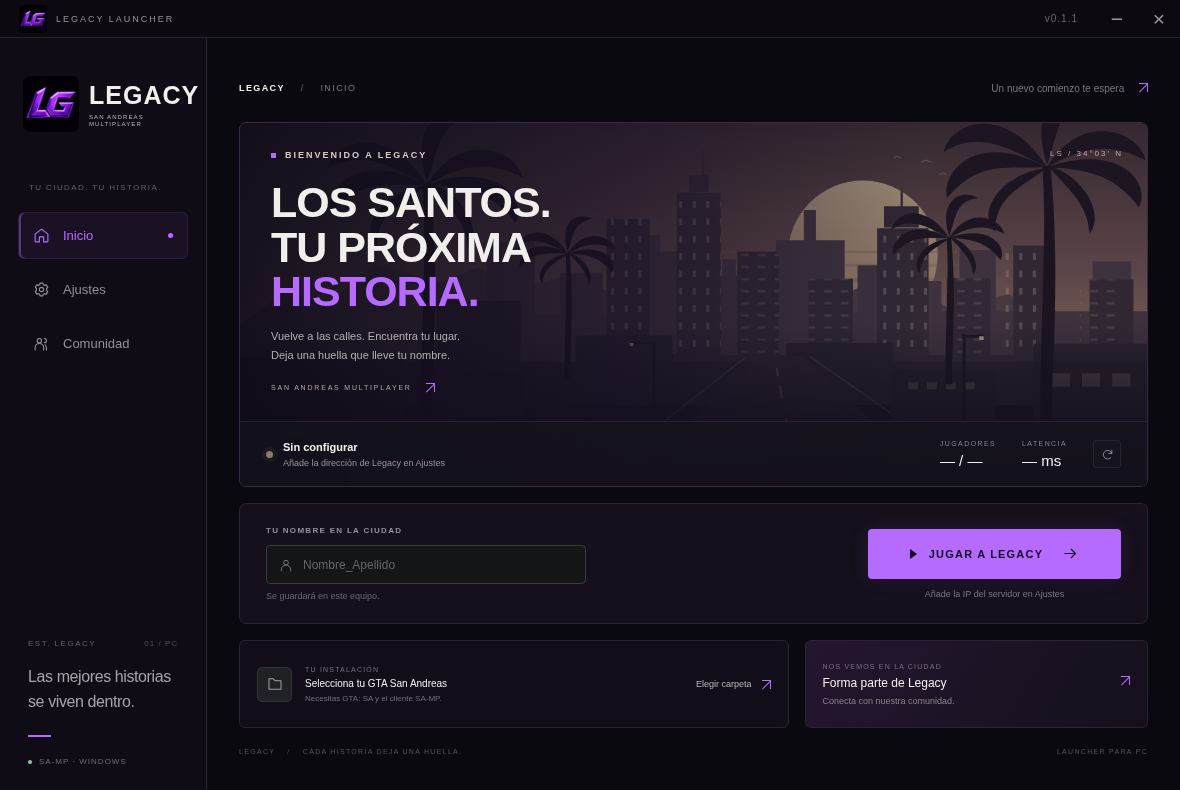
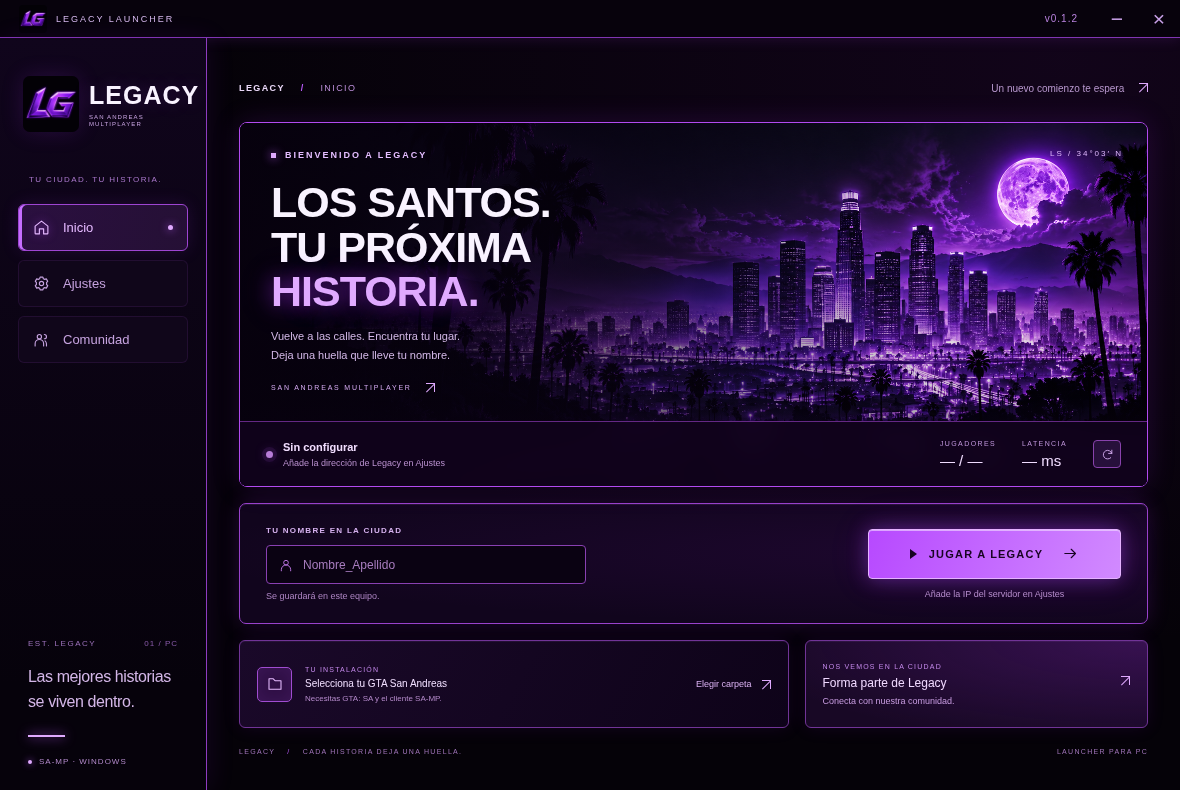
Aplica negro y morado neón a todo Legacy Launcher

diff --git a/renderer/styles.css b/renderer/styles.css
@@ -1,4 +1,215 @@
-:root{color-scheme:dark;--bg:#0b0910;--panel:#15101c;--line:#2b2235;--text:#f1efeb;--muted:#8b8b90;--accent:#b56bff;--green:#8bcc9a;font-family:"Segoe UI",Arial,sans-serif;font-size:14px}*{box-sizing:border-box}body{margin:0;background:var(--bg);color:var(--text)}button,input{font:inherit}button{cursor:pointer}button:disabled{cursor:default;opacity:.45}button,input{outline:none}button:focus-visible,input:focus-visible{outline:2px solid var(--accent);outline-offset:3px}button{color:inherit}svg{width:20px;height:20px;fill:none;stroke:currentColor;stroke-width:1.6;stroke-linecap:round;stroke-linejoin:round;flex-shrink:0}.icon-definitions{position:absolute;width:0;height:0;overflow:hidden}[hidden]{display:none!important}.titlebar{height:38px;display:flex;align-items:center;justify-content:space-between;padding-left:19px;background:#0c0911;border-bottom:1px solid #262628;-webkit-app-region:drag;user-select:none}.titlebar-name{font-size:9px;letter-spacing:2px;color:#949498;display:flex;align-items:center;gap:9px}.window-actions{display:flex;align-items:center;height:100%;-webkit-app-region:no-drag}.version{color:#69696f;font-size:10px;letter-spacing:1px;margin-right:18px}.window-button{background:none;border:0;font-size:21px;font-weight:300;width:42px;height:100%;color:#999}.window-button:hover{background:#252527;color:#fff}.close-window:hover{background:#b44739}.app-shell{display:flex;min-height:calc(100vh - 38px)}.sidebar{width:207px;flex-shrink:0;border-right:1px solid var(--line);background:#100c16;padding:35px 18px 24px;display:flex;flex-direction:column;position:relative}.brand{display:flex;align-items:center;gap:10px;margin:3px 0 51px 5px}.brand-name{font-size:25px;font-weight:900;letter-spacing:1px;line-height:1.2}.brand-name>span{display:block;font-size:6px;letter-spacing:1.1px;font-weight:400;color:#b8b7ba;margin-top:4px}.nav-label{color:#616168;font-size:8px;letter-spacing:1.4px;margin:0 11px 20px}.nav-item{width:100%;display:flex;align-items:center;gap:13px;border:1px solid transparent;background:none;border-radius:6px;height:47px;padding:0 14px;color:#8f9096;text-align:left;font-size:13px;margin-bottom:7px;position:relative}.nav-item svg{width:17px;height:17px}.nav-item:hover{background:#202123;color:#ccc}.nav-item.active{color:var(--accent);background:#b56bff10;border-color:#b56bff1c}.nav-dot{margin-left:auto;width:5px;height:5px;background:currentColor;border-radius:50%}.sidebar-bottom{margin-top:auto;padding:72px 10px 0}.edition{color:#63646a;font-size:8px;letter-spacing:1.5px;display:flex;justify-content:space-between}.edition>span{letter-spacing:1px;color:#4e4f55}.sidebar-bottom p{font-size:16px;line-height:1.6;letter-spacing:-.4px;color:#a4a4a8}.sidebar-line{width:23px;height:2px;background:var(--accent);display:block;margin:20px 0}.platform-label{font-size:8px;letter-spacing:1px;color:#6c6d73;display:flex;gap:7px;align-items:center}.tiny-dot{width:4px;height:4px;display:inline-block;border-radius:50%;background:var(--green)}main{min-width:0;flex:1;padding:0 32px;max-width:1550px;margin:auto;width:100%;align-self:stretch}.page-top{height:68px;display:flex;justify-content:space-between;align-items:center}.breadcrumb{font-size:9px;letter-spacing:1.4px;font-weight:600}.breadcrumb>span:first-child{color:#47484c;margin:0 12px}.breadcrumb>span:last-child{color:#77787f;font-weight:400}.top-caption{color:#77787f;font-size:10px}.top-caption>span{color:var(--accent);margin-left:12px}.hero{height:365px;border:1px solid #3a294a;position:relative;overflow:hidden;background:#24172e;border-radius:7px}.hero-art{position:absolute;inset:0;background-image:url('../assets/city.svg');background-position:center;background-size:cover;opacity:.83;filter:hue-rotate(28deg) saturate(.65)}.hero-shade{position:absolute;inset:0;background:linear-gradient(90deg,#111319dc 0%,#17151c8f 42%,#21182412 75%),linear-gradient(0deg,#15151b 0%,transparent 45%)}.hero-content{position:absolute;left:31px;top:27px}.eyebrow{font-size:9px;letter-spacing:2px;font-weight:600;display:flex;align-items:center;gap:9px;color:#d7cac1}.eyebrow>span{width:5px;height:5px;background:var(--accent);display:inline-block}h1{font-size:43px;line-height:1.04;letter-spacing:-1px;font-weight:900;margin:20px 0 13px}em{font-style:normal;color:var(--accent)}.hero-content p{font-size:11px;line-height:1.7;color:#b2acb1;margin:0}.hero-tag{display:flex;align-items:center;gap:14px;font-size:7px;letter-spacing:1.8px;color:#b3a8a9;margin-top:18px}.hero-tag b{font-size:14px;color:var(--accent)}.hero-coordinate{position:absolute;right:24px;top:26px;font-size:8px;letter-spacing:2px;color:#c7a1a2}.server-strip{position:absolute;bottom:0;width:100%;min-height:65px;border-top:1px solid #ffffff12;display:flex;align-items:center;justify-content:space-between;padding:12px 26px;background:#14141ba6;backdrop-filter:blur(12px)}.server-state{display:flex;align-items:center;gap:10px}.status-dot{width:7px;height:7px;background:#8c7a63;border-radius:50%;box-shadow:0 0 0 4px #8c7a6318}.status-dot.online{background:var(--green);box-shadow:0 0 0 4px #8bcc9a15}.status-dot.offline{background:#ef805f}.server-state>div{display:flex;flex-direction:column;gap:5px}#server-state{font-size:11px;font-weight:600}#server-address{font-size:9px;color:#9e9299}.server-stats{display:flex;gap:26px;align-items:center}.server-stats>div{display:flex;flex-direction:column;gap:5px}.server-stats>div>span{color:#8f828e;font-size:7px;letter-spacing:1.4px}.server-stats strong{font-size:15px;font-weight:500}.server-stats small{font-size:9px;color:#847b85;font-weight:400}.icon-button{width:28px;height:28px;display:grid;place-items:center;border:1px solid #ffffff12;border-radius:4px;background:#ffffff03;color:#a498a2}.icon-button:hover{background:#ffffff10;color:#fff}.icon-button svg{width:13px;height:13px}.launch-panel{display:flex;align-items:center;justify-content:space-between;border:1px solid var(--line);border-radius:7px;padding:22px 26px;background:#15101c;margin:16px 0;gap:28px}.player-field{flex:1;min-width:0}.player-field label,label{display:block;color:#929299;font-size:8px;letter-spacing:1.3px;font-weight:600;margin-bottom:10px}.input-wrap{display:flex;align-items:center;border:1px solid #39393e;border-radius:4px;height:39px;max-width:320px;background:#141517}.input-wrap:focus-within{border-color:var(--accent)}.input-wrap svg{width:14px;height:14px;color:#7d7e86;margin:0 10px 0 12px}.input-wrap input{width:100%;border:0;background:none;height:100%;min-width:0;color:#dfdfe2;font-size:12px;padding:0 10px 0 0;outline:none}.input-wrap input:focus-visible{outline:none}input::placeholder{color:#64656c}.player-field>span{font-size:9px;color:#686970;display:block;margin-top:7px}.launch-action{width:253px;flex-shrink:0;text-align:center}.play-button{border:0;background:var(--accent);color:#150920;border-radius:4px;width:100%;height:50px;font-size:11px;font-weight:800;letter-spacing:1.2px;display:flex;align-items:center;justify-content:center;gap:12px;transition:background .15s,transform .15s}.play-button:hover{background:#c997ff;transform:translateY(-1px)}.play-button svg{margin-left:7px;width:17px;height:17px}.play-triangle{width:0;height:0;border-top:5px solid transparent;border-bottom:5px solid transparent;border-left:7px solid currentColor}.launch-action>span{font-size:9px;display:block;color:#797980;margin-top:10px}.bottom-grid{display:grid;grid-template-columns:1.6fr 1fr;gap:16px}.installation-card,.community-card{background:#120e19;border:1px solid var(--line);border-radius:6px;min-height:88px;display:flex;align-items:center;padding:17px;gap:13px}.card-icon{width:35px;height:35px;border:1px solid #333338;background:#202124;border-radius:5px;display:grid;place-items:center;color:#9d9ca2;flex-shrink:0}.card-icon svg{width:16px;height:16px}.installation-info{display:flex;flex-direction:column;gap:5px;min-width:0}.card-kicker{font-size:7px;letter-spacing:1.2px;color:#73747c}.installation-info strong{font-size:10px;font-weight:500}.installation-info>span:last-child{font-size:8px;color:#717178;white-space:nowrap;overflow:hidden;text-overflow:ellipsis;max-width:230px}.text-button{border:0;background:none;color:#b8b5b9;font-size:9px;padding:7px 0;white-space:nowrap;display:flex;align-items:center;gap:10px}.text-button:hover{color:var(--accent)}.installation-card>.text-button{margin-left:auto}.text-button>span{color:var(--accent);font-size:16px}.community-card{display:flex;flex-direction:column;align-items:stretch;justify-content:center;gap:6px;text-align:left;background:linear-gradient(120deg,#24162f,#15101c)}.community-card:hover{border-color:#78509e}.community-card strong{font-size:12px;font-weight:500;display:flex;justify-content:space-between}.community-card strong>span{color:var(--accent);font-size:16px}.community-card>span:last-child{font-size:9px;color:#8c828c}.main-footer{height:46px;display:flex;align-items:center;justify-content:space-between;color:#54555c;font-size:7px;letter-spacing:1.3px}.footer-slash{color:#44454c;margin:0 9px}.section-heading{margin:16px 0 28px}.section-heading h2{font-size:29px;letter-spacing:-.8px;margin:13px 0 8px;font-weight:650}.section-heading p{font-size:12px;color:#8c8c94}.section-heading .eyebrow{color:#a19390}.settings-form{border:1px solid var(--line);background:#15101c;border-radius:7px;overflow:hidden}.settings-section{padding:22px 25px;border-bottom:1px solid var(--line)}.form-section-title{display:flex;gap:14px;margin-bottom:19px}.form-section-title>span{color:var(--accent);font-size:10px;font-weight:600;border:1px solid #b56bff29;background:#b56bff08;width:28px;height:28px;border-radius:4px;display:grid;place-items:center;flex-shrink:0}.form-section-title h3{font-size:13px;font-weight:600;margin:0 0 6px}.form-section-title p{color:#81828a;font-size:10px;margin:0}.settings-form input{height:38px;background:#121315;border:1px solid #343439;border-radius:4px;padding:0 12px;color:#d3d3d7;font-size:11px;width:100%}.settings-form label{font-size:7px;margin-bottom:8px}.settings-form input:focus{border-color:var(--accent)}.folder-input{display:flex;gap:10px}.folder-input input{min-width:0}.secondary-button,.primary-button{border:0;border-radius:4px;display:flex;align-items:center;justify-content:center;gap:12px;white-space:nowrap;font-size:11px;font-weight:600;min-height:38px;padding:0 17px}.secondary-button{border:1px solid #45434a;background:#25262b;color:#c3c2ca}.secondary-button:hover{background:#303137}.secondary-button svg{width:15px;height:15px}.primary-button{color:#150920;background:var(--accent)}.primary-button:hover{background:#c997ff}.primary-button svg{width:15px;height:15px}.field-help{color:#686b73;font-size:9px;margin:9px 0 0}.field-help.valid{color:var(--green)}.field-help.invalid{color:#ee977f}.form-row{display:flex;gap:16px}.form-row>div{flex:1;min-width:0}.form-row>.port-field{flex:0 0 110px}.form-footer{padding:19px 25px;display:flex;align-items:center;justify-content:space-between;gap:15px;background:#191221}.form-footer>span{font-size:9px;color:#72737c}.notification{padding:12px 16px;border:1px solid #b56bff45;background:#22152f;border-radius:5px;color:#e3c6ff;font-size:11px;margin:0 0 16px;line-height:1.5}.notification.success{background:#1b2a22;border-color:#8bcc9a40;color:#b2d8bd}.community-hero{border:1px solid #3a294a;border-radius:7px;min-height:592px;padding:35px;background:radial-gradient(ellipse at 80% 60%,#733aae3d,transparent 70%),#15101c;position:relative;overflow:hidden}.community-hero h2{font-size:51px;line-height:1.1;letter-spacing:-1.7px;margin:56px 0 22px;position:relative}.community-hero p{color:#9c939f;font-size:12px;line-height:1.8;position:relative}.community-hero .primary-button{margin:27px 0 14px;position:relative}.community-hero .discord-help{font-size:10px;color:#887b88}.community-hero .text-button{position:relative}.community-symbol{position:absolute;right:0;top:130px;transform:rotate(-10deg);color:#b56bff0e}.community-symbol svg{width:340px;height:340px;stroke-width:1}.loading{opacity:.6;pointer-events:none}@media(min-height:850px){.hero{height:410px}.hero-content{top:38px}h1{font-size:49px;margin-top:24px}.hero-content p{font-size:12px}.hero-tag{margin-top:22px}.launch-panel{padding-top:26px;padding-bottom:26px}.bottom-grid> *{min-height:104px}.main-footer{height:55px}}@media(min-width:1350px){main{padding:0 45px}.sidebar{width:220px}.hero-content{left:38px}h1{font-size:49px}.launch-panel{gap:45px}.player-field .input-wrap{max-width:400px}.launch-action{width:300px}.hero-art{background-position:center 48%}}@media(max-width:1000px){main{padding:0 22px}.sidebar{width:182px;padding-left:12px;padding-right:12px}.brand-name{font-size:22px}.brand-name>span{font-size:5px}.brand{gap:7px}.top-caption{display:none}.launch-panel{padding:19px;gap:20px}.launch-action{width:220px}.bottom-grid{grid-template-columns:1fr}.community-card{min-height:80px}.installation-card{min-height:85px}.main-footer>span:last-child{display:none}.hero-content{left:24px}.server-strip{padding-left:22px;padding-right:20px}.server-stats{gap:17px}}@media(prefers-reduced-motion:reduce){*{transition:none!important}}
-.diagonal-arrow{display:inline-block!important;width:9px!important;height:9px!important;position:relative;flex-shrink:0;border-top:1.4px solid currentColor;border-right:1.4px solid currentColor}.diagonal-arrow::after{content:"";display:block;position:absolute;right:-1px;top:-1px;width:12px;height:1.4px;background:currentColor;transform:rotate(-45deg);transform-origin:right center}
+:root {
+  color-scheme: dark;
+  --bg: #050208;
+  --panel: #100619;
+  --panel-raised: #1c0a2d;
+  --line: #602b83;
+  --text: #f9f3ff;
+  --muted: #b49acb;
+  --accent: #bd5cff;
+  --accent-bright: #e0aaff;
+  --accent-dim: #7130a3;
+  --glow: 0 0 22px #a329f730;
+  font-family: "Segoe UI", Arial, sans-serif;
+  font-size: 14px;
+}
+* { box-sizing: border-box; }
+body { margin: 0; background: var(--bg); color: var(--text); }
+button, input { font: inherit; }
+button { color: inherit; cursor: pointer; }
+button:disabled { cursor: default; opacity: .48; }
+button, input { outline: none; }
+button:focus-visible, input:focus-visible { outline: 2px solid var(--accent-bright); outline-offset: 3px; }
+button { transition: border-color .15s, background .15s, box-shadow .15s; }
+svg { width: 20px; height: 20px; fill: none; stroke: currentColor; stroke-width: 1.6; stroke-linecap: round; stroke-linejoin: round; flex-shrink: 0; }
+.icon-definitions { position: absolute; width: 0; height: 0; overflow: hidden; }
+[hidden] { display: none !important; }
 
-.mini-mark{display:block;width:28px;height:28px;object-fit:contain;border-radius:4px}.brand-mark{display:block;flex-shrink:0;width:56px;height:56px;object-fit:contain;border-radius:7px}.play-button{box-shadow:0 0 20px #b56bff1c}.play-button:hover{box-shadow:0 0 26px #b56bff38}.nav-item.active{box-shadow:inset 2px 0 #b56bff66}.hero-shade{background:linear-gradient(90deg,#100b19e6 0%,#170e248f 42%,#1b0e2812 75%),linear-gradient(0deg,#110c19 0%,transparent 45%)}@media(max-width:1000px){.brand-mark{width:44px;height:44px}}
+.titlebar { height: 38px; display: flex; align-items: center; justify-content: space-between; padding-left: 19px; background: #07020c; border-bottom: 1px solid #8035b2; box-shadow: 0 1px 14px #b347ff26; -webkit-app-region: drag; user-select: none; }
+.titlebar-name { display: flex; align-items: center; gap: 9px; font-size: 9px; letter-spacing: 2px; color: #d4b8eb; }
+.mini-mark { display: block; width: 28px; height: 28px; object-fit: contain; border-radius: 4px; }
+.window-actions { display: flex; align-items: center; height: 100%; -webkit-app-region: no-drag; }
+.version { color: #b982df; font-size: 10px; letter-spacing: 1px; margin-right: 18px; }
+.window-button { width: 42px; height: 100%; border: 0; background: none; color: #c8a0e7; font-size: 21px; font-weight: 300; }
+.window-button:hover { background: #34104d; color: #fff; box-shadow: inset 0 -2px var(--accent); }
+.close-window:hover { background: #662191; }
+.app-shell { display: flex; min-height: calc(100vh - 38px); background: radial-gradient(ellipse at 90% 3%, #64128c22, transparent 57%); }
+.sidebar { width: 207px; flex-shrink: 0; position: relative; display: flex; flex-direction: column; padding: 35px 18px 24px; background: linear-gradient(180deg, #10051c, #06020b 86%); border-right: 1px solid #8e3cc0; box-shadow: 4px 0 24px #962be618; }
+.brand { display: flex; align-items: center; gap: 10px; margin: 3px 0 43px 5px; }
+.brand-mark { display: block; flex-shrink: 0; width: 56px; height: 56px; object-fit: contain; border-radius: 7px; box-shadow: 0 0 22px #9f36ee2b; }
+.brand-name { font-size: 25px; font-weight: 900; letter-spacing: 1px; line-height: 1.2; text-shadow: 0 0 18px #b955ff33; }
+.brand-name > span { display: block; font-size: 6px; letter-spacing: 1.1px; font-weight: 400; color: #c6a2df; margin-top: 4px; }
+.nav-label { margin: 0 11px 20px; color: #aa78cc; font-size: 8px; letter-spacing: 1.4px; }
+.nav-item { position: relative; display: flex; align-items: center; gap: 13px; width: 100%; height: 47px; padding: 0 14px; margin-bottom: 9px; border: 1px solid #4b20664d; border-radius: 6px; background: #10061a; color: #c5a2de; text-align: left; font-size: 13px; }
+.nav-item svg { width: 17px; height: 17px; }
+.nav-item:hover { border-color: #9945cf; background: #28103d; color: #f2deff; }
+.nav-item.active { border-color: #9e45d2; background: linear-gradient(100deg, #57207c66, #251035); color: #e5b9ff; box-shadow: inset 3px 0 #c56dff, 0 0 18px #b13dff20; }
+.nav-item.active svg { filter: drop-shadow(0 0 4px #b13dff99); }
+.nav-dot { width: 5px; height: 5px; margin-left: auto; background: var(--accent-bright); border-radius: 50%; box-shadow: 0 0 8px var(--accent); }
+.nav-item:not(.active) .nav-dot { opacity: 0; }
+.sidebar-bottom { margin-top: auto; padding: 72px 10px 0; }
+.edition { display: flex; justify-content: space-between; color: #9e73bd; font-size: 8px; letter-spacing: 1.5px; }
+.edition > span { color: #895aa9; letter-spacing: 1px; }
+.sidebar-bottom p { color: #d3b6e7; font-size: 16px; line-height: 1.6; letter-spacing: -.4px; }
+.sidebar-line { display: block; width: 37px; height: 2px; margin: 20px 0; background: var(--accent-bright); box-shadow: 0 0 12px var(--accent); }
+.platform-label { display: flex; gap: 7px; align-items: center; color: #b38acb; font-size: 8px; letter-spacing: 1px; }
+.tiny-dot { display: inline-block; width: 4px; height: 4px; border-radius: 50%; background: var(--accent-bright); box-shadow: 0 0 7px var(--accent); }
+main { min-width: 0; flex: 1; width: 100%; max-width: 1550px; align-self: stretch; margin: auto; padding: 0 32px; }
+.page-top { height: 68px; display: flex; justify-content: space-between; align-items: center; }
+.breadcrumb { color: #ead8f8; font-size: 9px; letter-spacing: 1.4px; font-weight: 600; }
+.breadcrumb > span:first-child { color: var(--accent); margin: 0 12px; }
+.breadcrumb > span:last-child { color: #bb8ed8; font-weight: 400; }
+.top-caption { color: #b797cd; font-size: 10px; }
+.top-caption > span { color: var(--accent-bright); margin-left: 12px; }
+
+.hero { height: 365px; position: relative; overflow: hidden; border: 1px solid #b24af0; border-radius: 8px; background: #0b0213; box-shadow: 0 0 28px #9229e22b, inset 0 0 25px #a03be614; }
+.hero-art { position: absolute; inset: 0; background: url('../assets/city-neon.png') right center / cover; }
+.hero-shade { position: absolute; inset: 0; background: linear-gradient(90deg, #07010ee6 0%, #0a02157d 42%, #12032200 76%), linear-gradient(0deg, #0d0218 0%, #0b02172e 24%, transparent 70%); }
+.hero-content { position: absolute; left: 31px; top: 27px; }
+.eyebrow { display: flex; align-items: center; gap: 9px; color: #e4bdff; font-size: 9px; letter-spacing: 2px; font-weight: 600; }
+.eyebrow > span { display: inline-block; width: 5px; height: 5px; background: var(--accent-bright); box-shadow: 0 0 10px var(--accent); }
+h1 { font-size: 43px; line-height: 1.04; letter-spacing: -1px; font-weight: 900; margin: 20px 0 13px; }
+em { color: var(--accent-bright); font-style: normal; text-shadow: 0 0 20px #af34ff90, 0 0 45px #9d2cf633; }
+.hero-content p { color: #d2b7e6; font-size: 11px; line-height: 1.7; margin: 0; }
+.hero-tag { display: flex; align-items: center; gap: 14px; color: #d3a9ef; font-size: 7px; letter-spacing: 1.8px; margin-top: 18px; }
+.hero-tag b { color: var(--accent-bright); font-size: 14px; }
+.hero-coordinate { position: absolute; right: 24px; top: 26px; color: #dbb3fa; font-size: 8px; letter-spacing: 2px; }
+.server-strip { position: absolute; bottom: 0; display: flex; align-items: center; justify-content: space-between; width: 100%; min-height: 65px; padding: 12px 26px; background: #10021bea; border-top: 1px solid #9c43cc99; backdrop-filter: blur(12px); }
+.server-state { display: flex; align-items: center; gap: 10px; }
+.status-dot { width: 7px; height: 7px; border-radius: 50%; background: #b77dd7; box-shadow: 0 0 0 4px #bd5cff18, 0 0 12px #b44fff66; }
+.status-dot.online { background: #f1d8ff; box-shadow: 0 0 0 4px #d891ff24, 0 0 12px #d891ff; }
+.status-dot.offline { background: #9c6db9; box-shadow: 0 0 0 4px #bd5cff15; }
+.server-state > div { display: flex; flex-direction: column; gap: 5px; }
+#server-state { color: #f1ddff; font-size: 11px; font-weight: 600; }
+#server-address { color: #ba91d0; font-size: 9px; }
+.server-stats { display: flex; gap: 26px; align-items: center; }
+.server-stats > div { display: flex; flex-direction: column; gap: 5px; }
+.server-stats > div > span { color: #c096dc; font-size: 7px; letter-spacing: 1.4px; }
+.server-stats strong { color: #f0dcff; font-size: 15px; font-weight: 500; }
+.server-stats small { color: #bb8ed4; font-size: 9px; font-weight: 400; }
+.icon-button { display: grid; place-items: center; width: 28px; height: 28px; border: 1px solid #8842ac; border-radius: 4px; background: #27103b; color: #dfb5fa; }
+.icon-button:hover { background: #4a1a68; border-color: #d28bff; box-shadow: 0 0 12px #b44fff44; }
+.icon-button svg { width: 13px; height: 13px; }
+
+.launch-panel { display: flex; align-items: center; justify-content: space-between; gap: 28px; margin: 16px 0; padding: 22px 26px; border: 1px solid #9942cc; border-radius: 7px; background: radial-gradient(ellipse at 90% 40%, #6b169c25, transparent 75%), #11051d; box-shadow: var(--glow), inset 0 1px #d99aff1a; }
+.player-field { flex: 1; min-width: 0; }
+label { display: block; margin-bottom: 10px; color: #d5b1ee; font-size: 8px; letter-spacing: 1.3px; font-weight: 600; }
+.input-wrap { display: flex; align-items: center; max-width: 320px; height: 39px; border: 1px solid #8940b2; border-radius: 4px; background: #0a0212; }
+.input-wrap:focus-within { border-color: var(--accent-bright); box-shadow: 0 0 0 3px #b652ff22, 0 0 14px #b652ff26; }
+.input-wrap svg { width: 14px; height: 14px; margin: 0 10px 0 12px; color: #c17ae9; }
+.input-wrap input { width: 100%; min-width: 0; height: 100%; border: 0; background: none; color: #f3e2ff; font-size: 12px; padding: 0 10px 0 0; outline: none; }
+.input-wrap input:focus-visible { outline: none; }
+input::placeholder { color: #a77cbe; opacity: 1; }
+.player-field > span { display: block; margin-top: 7px; color: #ad85c3; font-size: 9px; }
+.launch-action { width: 253px; flex-shrink: 0; text-align: center; }
+.play-button { display: flex; align-items: center; justify-content: center; gap: 12px; width: 100%; height: 50px; border: 1px solid #e4b2ff; border-radius: 4px; background: linear-gradient(110deg, #b749ff, #d18aff); color: #180322; font-size: 11px; font-weight: 800; letter-spacing: 1.2px; box-shadow: 0 0 20px #b14dff66, 0 0 42px #9619ed24, inset 0 1px #f3dfff99; }
+.play-button:hover { background: linear-gradient(110deg, #cd7aff, #e4b2ff); box-shadow: 0 0 29px #bf64ff99, 0 0 55px #a331ff33; }
+.play-button svg { margin-left: 7px; width: 17px; height: 17px; }
+.play-triangle { width: 0; height: 0; border-top: 5px solid transparent; border-bottom: 5px solid transparent; border-left: 7px solid currentColor; }
+.launch-action > span { display: block; margin-top: 10px; color: #b68dcd; font-size: 9px; }
+.bottom-grid { display: grid; grid-template-columns: 1.6fr 1fr; gap: 16px; }
+.installation-card, .community-card { display: flex; align-items: center; gap: 13px; min-height: 88px; padding: 17px; border: 1px solid #713497; border-radius: 6px; background: linear-gradient(120deg, #1a0929, #0e0319); box-shadow: 0 0 18px #8c1ddf1c, inset 0 1px #ca7aff14; }
+.card-icon { display: grid; place-items: center; width: 35px; height: 35px; flex-shrink: 0; border: 1px solid #a04cd1; border-radius: 5px; background: #301046; color: #e6bbff; box-shadow: inset 0 0 15px #b950ff18; }
+.card-icon svg { width: 16px; height: 16px; }
+.installation-info { display: flex; flex-direction: column; gap: 5px; min-width: 0; }
+.card-kicker { color: #c388ea; font-size: 7px; letter-spacing: 1.2px; }
+.installation-info strong { color: #f1dfff; font-size: 10px; font-weight: 500; }
+.installation-info > span:last-child { max-width: 230px; overflow: hidden; color: #b58acb; font-size: 8px; white-space: nowrap; text-overflow: ellipsis; }
+.text-button { display: flex; align-items: center; gap: 10px; border: 0; background: none; color: #d8aff0; padding: 7px 0; font-size: 9px; white-space: nowrap; }
+.text-button:hover { color: #f1d7ff; text-shadow: 0 0 12px #bb52ff; }
+.installation-card > .text-button { margin-left: auto; }
+.text-button > span { color: var(--accent-bright); font-size: 16px; }
+.community-card { flex-direction: column; align-items: stretch; justify-content: center; gap: 6px; text-align: left; background: radial-gradient(ellipse at 100% 0, #8126b74d, transparent 85%), #180825; }
+.community-card:hover { border-color: #cd7aff; box-shadow: 0 0 24px #b141ff40; }
+.community-card strong { display: flex; justify-content: space-between; color: #f0d9ff; font-size: 12px; font-weight: 500; }
+.community-card strong > span { color: var(--accent-bright); font-size: 16px; }
+.community-card > span:last-child { color: #c69bdf; font-size: 9px; }
+.main-footer { display: flex; align-items: center; justify-content: space-between; height: 46px; color: #a175ba; font-size: 7px; letter-spacing: 1.3px; }
+.footer-slash { color: #bc5cff; margin: 0 9px; }
+
+.section-heading { margin: 16px 0 28px; }
+.section-heading h2 { margin: 13px 0 8px; color: #f4e4ff; font-size: 29px; letter-spacing: -.8px; font-weight: 650; text-shadow: 0 0 26px #b840ff33; }
+.section-heading p { color: #bf9ad5; font-size: 12px; }
+.section-heading .eyebrow { color: #d293ff; }
+.settings-form { overflow: hidden; border: 1px solid #9e48cd; border-radius: 7px; background: #10041a; box-shadow: var(--glow); }
+.settings-section { padding: 22px 25px; border-bottom: 1px solid #78329f; background: linear-gradient(110deg, #210b3466, #10041a); }
+.form-section-title { display: flex; gap: 14px; margin-bottom: 19px; }
+.form-section-title > span { display: grid; place-items: center; width: 28px; height: 28px; flex-shrink: 0; border: 1px solid #bc64ed; border-radius: 4px; background: #381151; color: #f0cdff; font-size: 10px; font-weight: 600; box-shadow: 0 0 12px #b94bff2b; }
+.form-section-title h3 { margin: 0 0 6px; color: #f2ddff; font-size: 13px; font-weight: 600; }
+.form-section-title p { margin: 0; color: #bb94d1; font-size: 10px; }
+.settings-form input { width: 100%; height: 38px; padding: 0 12px; border: 1px solid #8240ab; border-radius: 4px; background: #090210; color: #f0dbff; font-size: 11px; }
+.settings-form label { margin-bottom: 8px; color: #d4abef; font-size: 7px; }
+.settings-form input:focus { border-color: var(--accent-bright); box-shadow: 0 0 0 3px #bd5cff22, 0 0 16px #bd5cff26; }
+.folder-input { display: flex; gap: 10px; }
+.folder-input input { min-width: 0; }
+.secondary-button, .primary-button { display: flex; align-items: center; justify-content: center; gap: 12px; min-height: 38px; padding: 0 17px; border: 1px solid #b55ae7; border-radius: 4px; font-size: 11px; font-weight: 600; white-space: nowrap; }
+.secondary-button { color: #edceff; background: #321046; box-shadow: inset 0 0 16px #9d35db18; }
+.secondary-button:hover { border-color: #e1aaff; background: #51206d; box-shadow: 0 0 15px #ab3aee33; }
+.secondary-button svg, .primary-button svg { width: 15px; height: 15px; }
+.primary-button { color: #180322; background: linear-gradient(110deg, #b749ff, #d18aff); border-color: #e4b2ff; box-shadow: 0 0 20px #b14dff44, inset 0 1px #f3dfff88; }
+.primary-button:hover { background: linear-gradient(110deg, #cd7aff, #e4b2ff); box-shadow: 0 0 26px #bf64ff66; }
+.field-help { color: #b38acb; font-size: 9px; margin: 9px 0 0; }
+.field-help.valid { color: #e7c0ff; }
+.field-help.invalid { color: #f2dcff; }
+.form-row { display: flex; gap: 16px; }
+.form-row > div { flex: 1; min-width: 0; }
+.form-row > .port-field { flex: 0 0 110px; }
+.form-footer { display: flex; align-items: center; justify-content: space-between; gap: 15px; padding: 19px 25px; background: #220c33; }
+.form-footer > span { color: #c59cdb; font-size: 9px; }
+.notification { margin: 0 0 16px; padding: 12px 16px; border: 1px solid #b15be3; border-radius: 5px; background: #2b0c42; color: #f1d5ff; font-size: 11px; line-height: 1.5; box-shadow: 0 0 16px #9d2be522; }
+.notification.success { border-color: #d99aff; background: #241036; color: #efd5ff; }
+
+.community-hero { min-height: 592px; position: relative; overflow: hidden; padding: 35px; border: 1px solid #b24af0; border-radius: 7px; background: linear-gradient(90deg, #090211fa 20%, #10021ccd 58%, #19052b80), url('../assets/city-neon.png') 65% center / cover; box-shadow: 0 0 28px #a32ce62b; }
+.community-hero::after { content: ""; position: absolute; right: -95px; top: 70px; width: 430px; height: 430px; border: 1px solid #ad45e64d; border-radius: 50%; box-shadow: 0 0 35px #a22be629, inset 0 0 35px #a22be618; pointer-events: none; }
+.community-hero .eyebrow, .community-hero h2, .community-hero p, .community-hero button { position: relative; z-index: 1; }
+.community-hero h2 { margin: 56px 0 22px; color: #f7e9ff; font-size: 51px; line-height: 1.1; letter-spacing: -1.7px; }
+.community-hero p { color: #d1b1e6; font-size: 12px; line-height: 1.8; }
+.community-hero .primary-button { margin: 27px 0 14px; }
+.community-hero .discord-help { color: #c198d9; font-size: 10px; }
+.community-symbol { position: absolute; right: 32px; top: 139px; width: 250px; height: 250px; opacity: .84; }
+.community-symbol img { display: block; width: 100%; height: 100%; object-fit: contain; border-radius: 20px; filter: drop-shadow(0 0 28px #b145ff66); }
+.loading { opacity: .6; pointer-events: none; }
+.diagonal-arrow { display: inline-block !important; width: 9px !important; height: 9px !important; position: relative; flex-shrink: 0; border-top: 1.4px solid currentColor; border-right: 1.4px solid currentColor; }
+.diagonal-arrow::after { content: ""; display: block; position: absolute; right: -1px; top: -1px; width: 12px; height: 1.4px; background: currentColor; transform: rotate(-45deg); transform-origin: right center; }
+
+@media (min-height: 850px) {
+  .hero { height: 410px; }
+  .hero-content { top: 38px; }
+  h1 { font-size: 49px; margin-top: 24px; }
+  .hero-content p { font-size: 12px; }
+  .hero-tag { margin-top: 22px; }
+  .launch-panel { padding-top: 26px; padding-bottom: 26px; }
+  .bottom-grid > * { min-height: 104px; }
+  .main-footer { height: 55px; }
+}
+@media (min-width: 1350px) {
+  main { padding: 0 45px; }
+  .sidebar { width: 220px; }
+  .hero-content { left: 38px; }
+  h1 { font-size: 49px; }
+  .launch-panel { gap: 45px; }
+  .player-field .input-wrap { max-width: 400px; }
+  .launch-action { width: 300px; }
+}
+@media (max-width: 1000px) {
+  main { padding: 0 22px; }
+  .sidebar { width: 182px; padding-left: 12px; padding-right: 12px; }
+  .brand-name { font-size: 22px; }
+  .brand-name > span { font-size: 5px; }
+  .brand { gap: 7px; }
+  .brand-mark { width: 44px; height: 44px; }
+  .top-caption { display: none; }
+  .launch-panel { padding: 19px; gap: 20px; }
+  .launch-action { width: 220px; }
+  .bottom-grid { grid-template-columns: 1fr; }
+  .community-card { min-height: 80px; }
+  .installation-card { min-height: 85px; }
+  .main-footer > span:last-child { display: none; }
+  .hero-content { left: 24px; }
+  .server-strip { padding-left: 22px; padding-right: 20px; }
+  .server-stats { gap: 17px; }
+  .community-symbol { width: 195px; height: 195px; right: 4px; top: 220px; opacity: .5; }
+}
+@media (prefers-reduced-motion: reduce) {
+  * { transition: none !important; }
+}

diff --git a/renderer/index.html b/renderer/index.html
@@ -24,7 +24,7 @@
   <header class="titlebar">
     <span class="titlebar-name"><img class="mini-mark" src="../assets/icon.png" alt="Logo LG de Legacy" width="28" height="28"> LEGACY LAUNCHER</span>
     <div class="window-actions">
-      <span class="version" id="version">v0.1.1</span>
+      <span class="version" id="version">v0.1.2</span>
       <button id="minimize" class="window-button" aria-label="Minimizar">−</button>
       <button id="close" class="window-button close-window" aria-label="Cerrar">×</button>
     </div>
@@ -63,7 +63,7 @@
         </form>
       </section>
       <section id="view-community" class="view" hidden>
-        <div class="community-hero"><div class="eyebrow"><span></span> MÁS ALLÁ DEL JUEGO</div><div class="community-symbol" aria-hidden="true"><svg><use href="#i-people"/></svg></div><h2>Una ciudad.<br><em>Muchas historias.</em></h2><p>Encuentra a otros jugadores, comparte tus momentos<br>y entérate de lo que pasa en Legacy.</p><button class="primary-button" id="open-discord">Entrar al Discord <svg><use href="#i-link"/></svg></button><p class="discord-help" id="discord-help">Añade la invitación de Legacy en Ajustes.</p><button class="text-button" data-view="settings">Configurar invitación <span class="diagonal-arrow" aria-hidden="true"></span></button></div>
+        <div class="community-hero"><div class="eyebrow"><span></span> MÁS ALLÁ DEL JUEGO</div><div class="community-symbol" aria-hidden="true"><img src="../assets/logo-lg.png" alt="" width="250" height="250"></div><h2>Una ciudad.<br><em>Muchas historias.</em></h2><p>Encuentra a otros jugadores, comparte tus momentos<br>y entérate de lo que pasa en Legacy.</p><button class="primary-button" id="open-discord">Entrar al Discord <svg><use href="#i-link"/></svg></button><p class="discord-help" id="discord-help">Añade la invitación de Legacy en Ajustes.</p><button class="text-button" data-view="settings">Configurar invitación <span class="diagonal-arrow" aria-hidden="true"></span></button></div>
       </section>
       <footer class="main-footer"><span>LEGACY <span class="footer-slash">/</span> CADA HISTORIA DEJA UNA HUELLA.</span><span id="footer-mode">LAUNCHER PARA PC</span></footer>
     </main>

diff --git a/README.md b/README.md
@@ -2,13 +2,15 @@
 
 Launcher de escritorio en español para un servidor de SA-MP. Interfaz propia de Legacy, perfil local, selección de la instalación de GTA, consulta real del servidor y conexión mediante el cliente SA-MP instalado.
 
-La versión 0.1.1 incorpora el monograma **LG**, con fondo negro y morado neón. El [logo en PNG](assets/logo-lg.png) se puede usar también para el servidor; los iconos de Windows y del launcher usan el mismo diseño.
+La versión 0.1.2 aplica la temática **negro y morado neón a todo el launcher**: Inicio, Ajustes, Comunidad, fondos, tarjetas, botones, campos y mensajes. Incorpora el monograma **LG** y una ciudad nocturna en violeta. El [logo en PNG](assets/logo-lg.png) se puede usar también para el servidor; los iconos de Windows y del launcher usan el mismo diseño.
 
 ![Vista previa de Legacy Launcher](docs/legacy-launcher.png)
 
+Ver también: [Ajustes](docs/legacy-settings.png) · [Comunidad](docs/legacy-community.png).
+
 ## Usarlo en Windows
 
-Si descargas el instalador, ejecuta `Legacy-Launcher-0.1.1-Setup.exe` y sigue los pasos. Para usar la versión ZIP:
+Si descargas el instalador, ejecuta `Legacy-Launcher-0.1.2-Setup.exe` y sigue los pasos. Para usar la versión ZIP:
 
 1. Extrae **todo** el ZIP de Windows en una carpeta. No ejecutes el programa desde dentro del ZIP.
 2. Abre `Legacy Launcher.exe`.
@@ -20,7 +22,7 @@ Requiere Windows 10/11 de 64 bits, una copia propia compatible de GTA San Andrea
 
 **La dirección de Legacy todavía no se ha proporcionado.** Por eso el launcher empieza con el servidor sin configurar y sin estadísticas ficticias. Puedes introducir la IP desde Ajustes, sin recompilar.
 
-Este primer paquete no tiene firma de editor de Windows. La conexión real al juego debe comprobarse en un PC con Windows y con la dirección de Legacy configurada; las pruebas automatizadas se realizan con un servidor SA-MP de prueba local y un proceso simulado.
+El paquete no tiene firma de editor de Windows. La conexión real al juego debe comprobarse en un PC con Windows y con la dirección de Legacy configurada; las pruebas automatizadas se realizan con un servidor SA-MP de prueba local y un proceso simulado.
 
 ## Funciones
 
@@ -66,7 +68,7 @@ Sustituye `serverHost` por la IP o el dominio **sin** `samp://`, `http://` ni pu
 npm run dist:win
 ```
 
-El resultado aparece en `release/Legacy-Launcher-0.1.1-Windows-x64.zip`. Incluye el ejecutable y los archivos de Electron; hay que distribuir el ZIP completo. Para generar un instalador desde Windows:
+El resultado aparece en `release/Legacy-Launcher-0.1.2-Windows-x64.zip`. Incluye el ejecutable y los archivos de Electron; hay que distribuir el ZIP completo. Para generar un instalador desde Windows:
 
 ```sh
 npm run dist:installer
